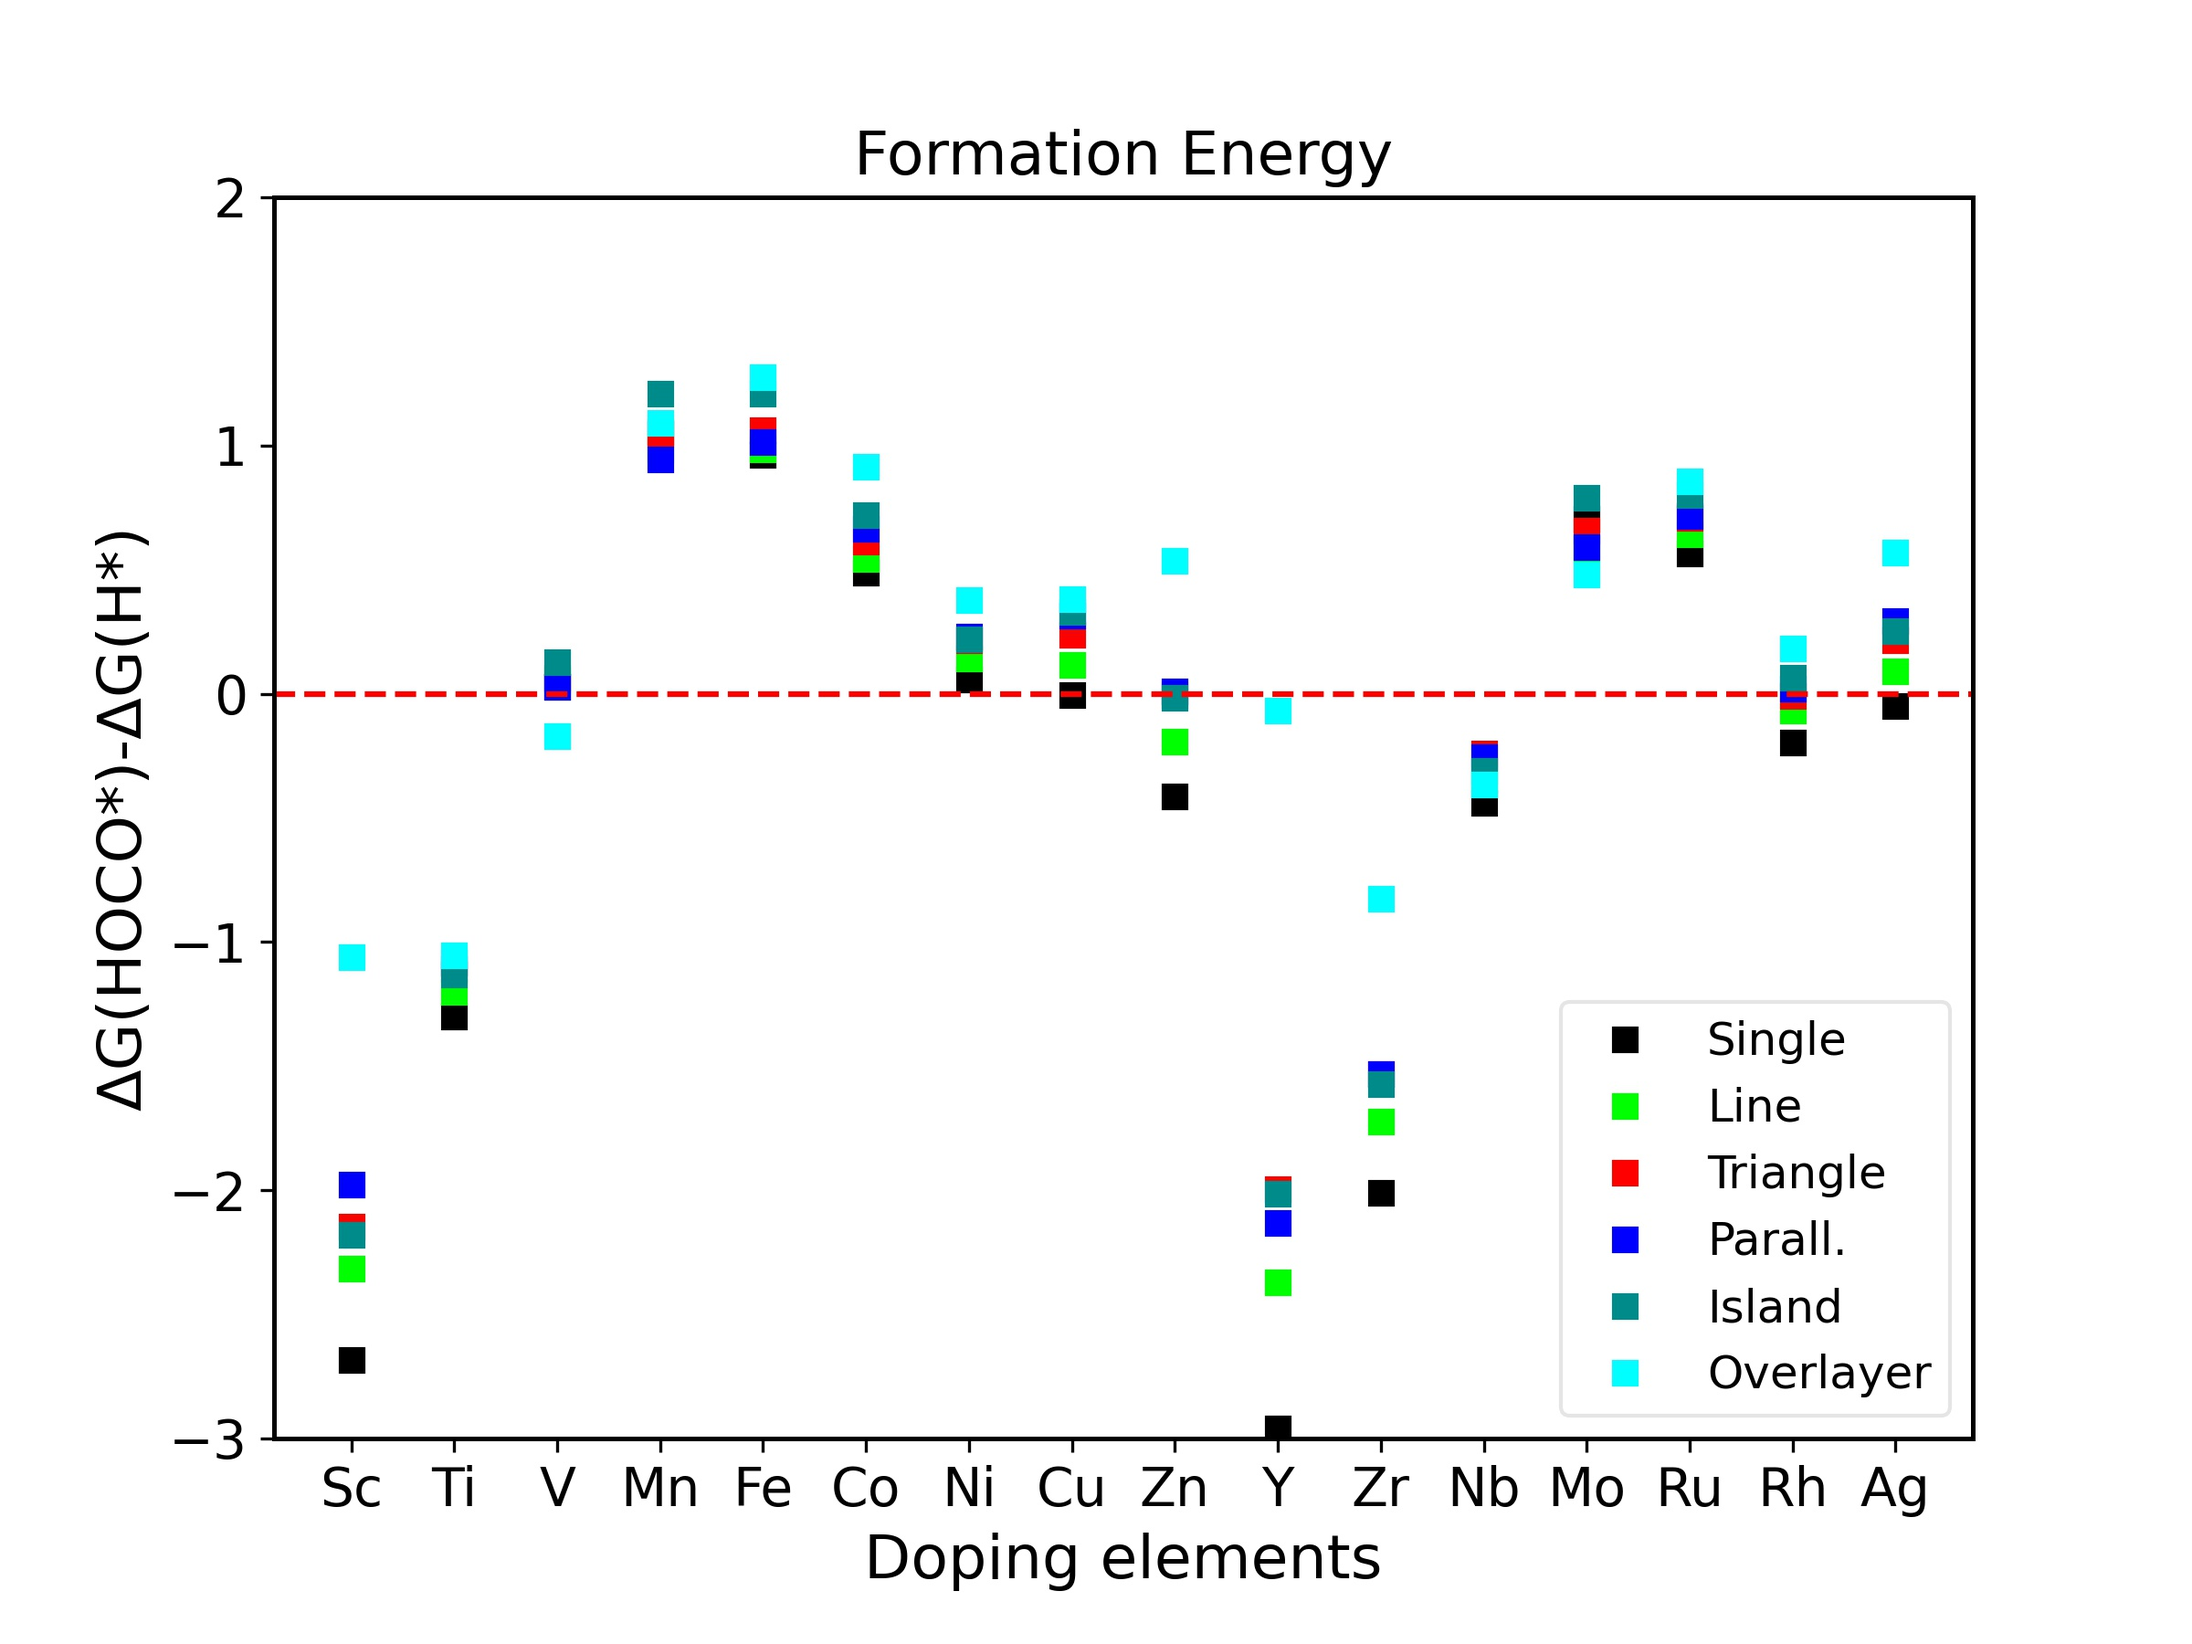
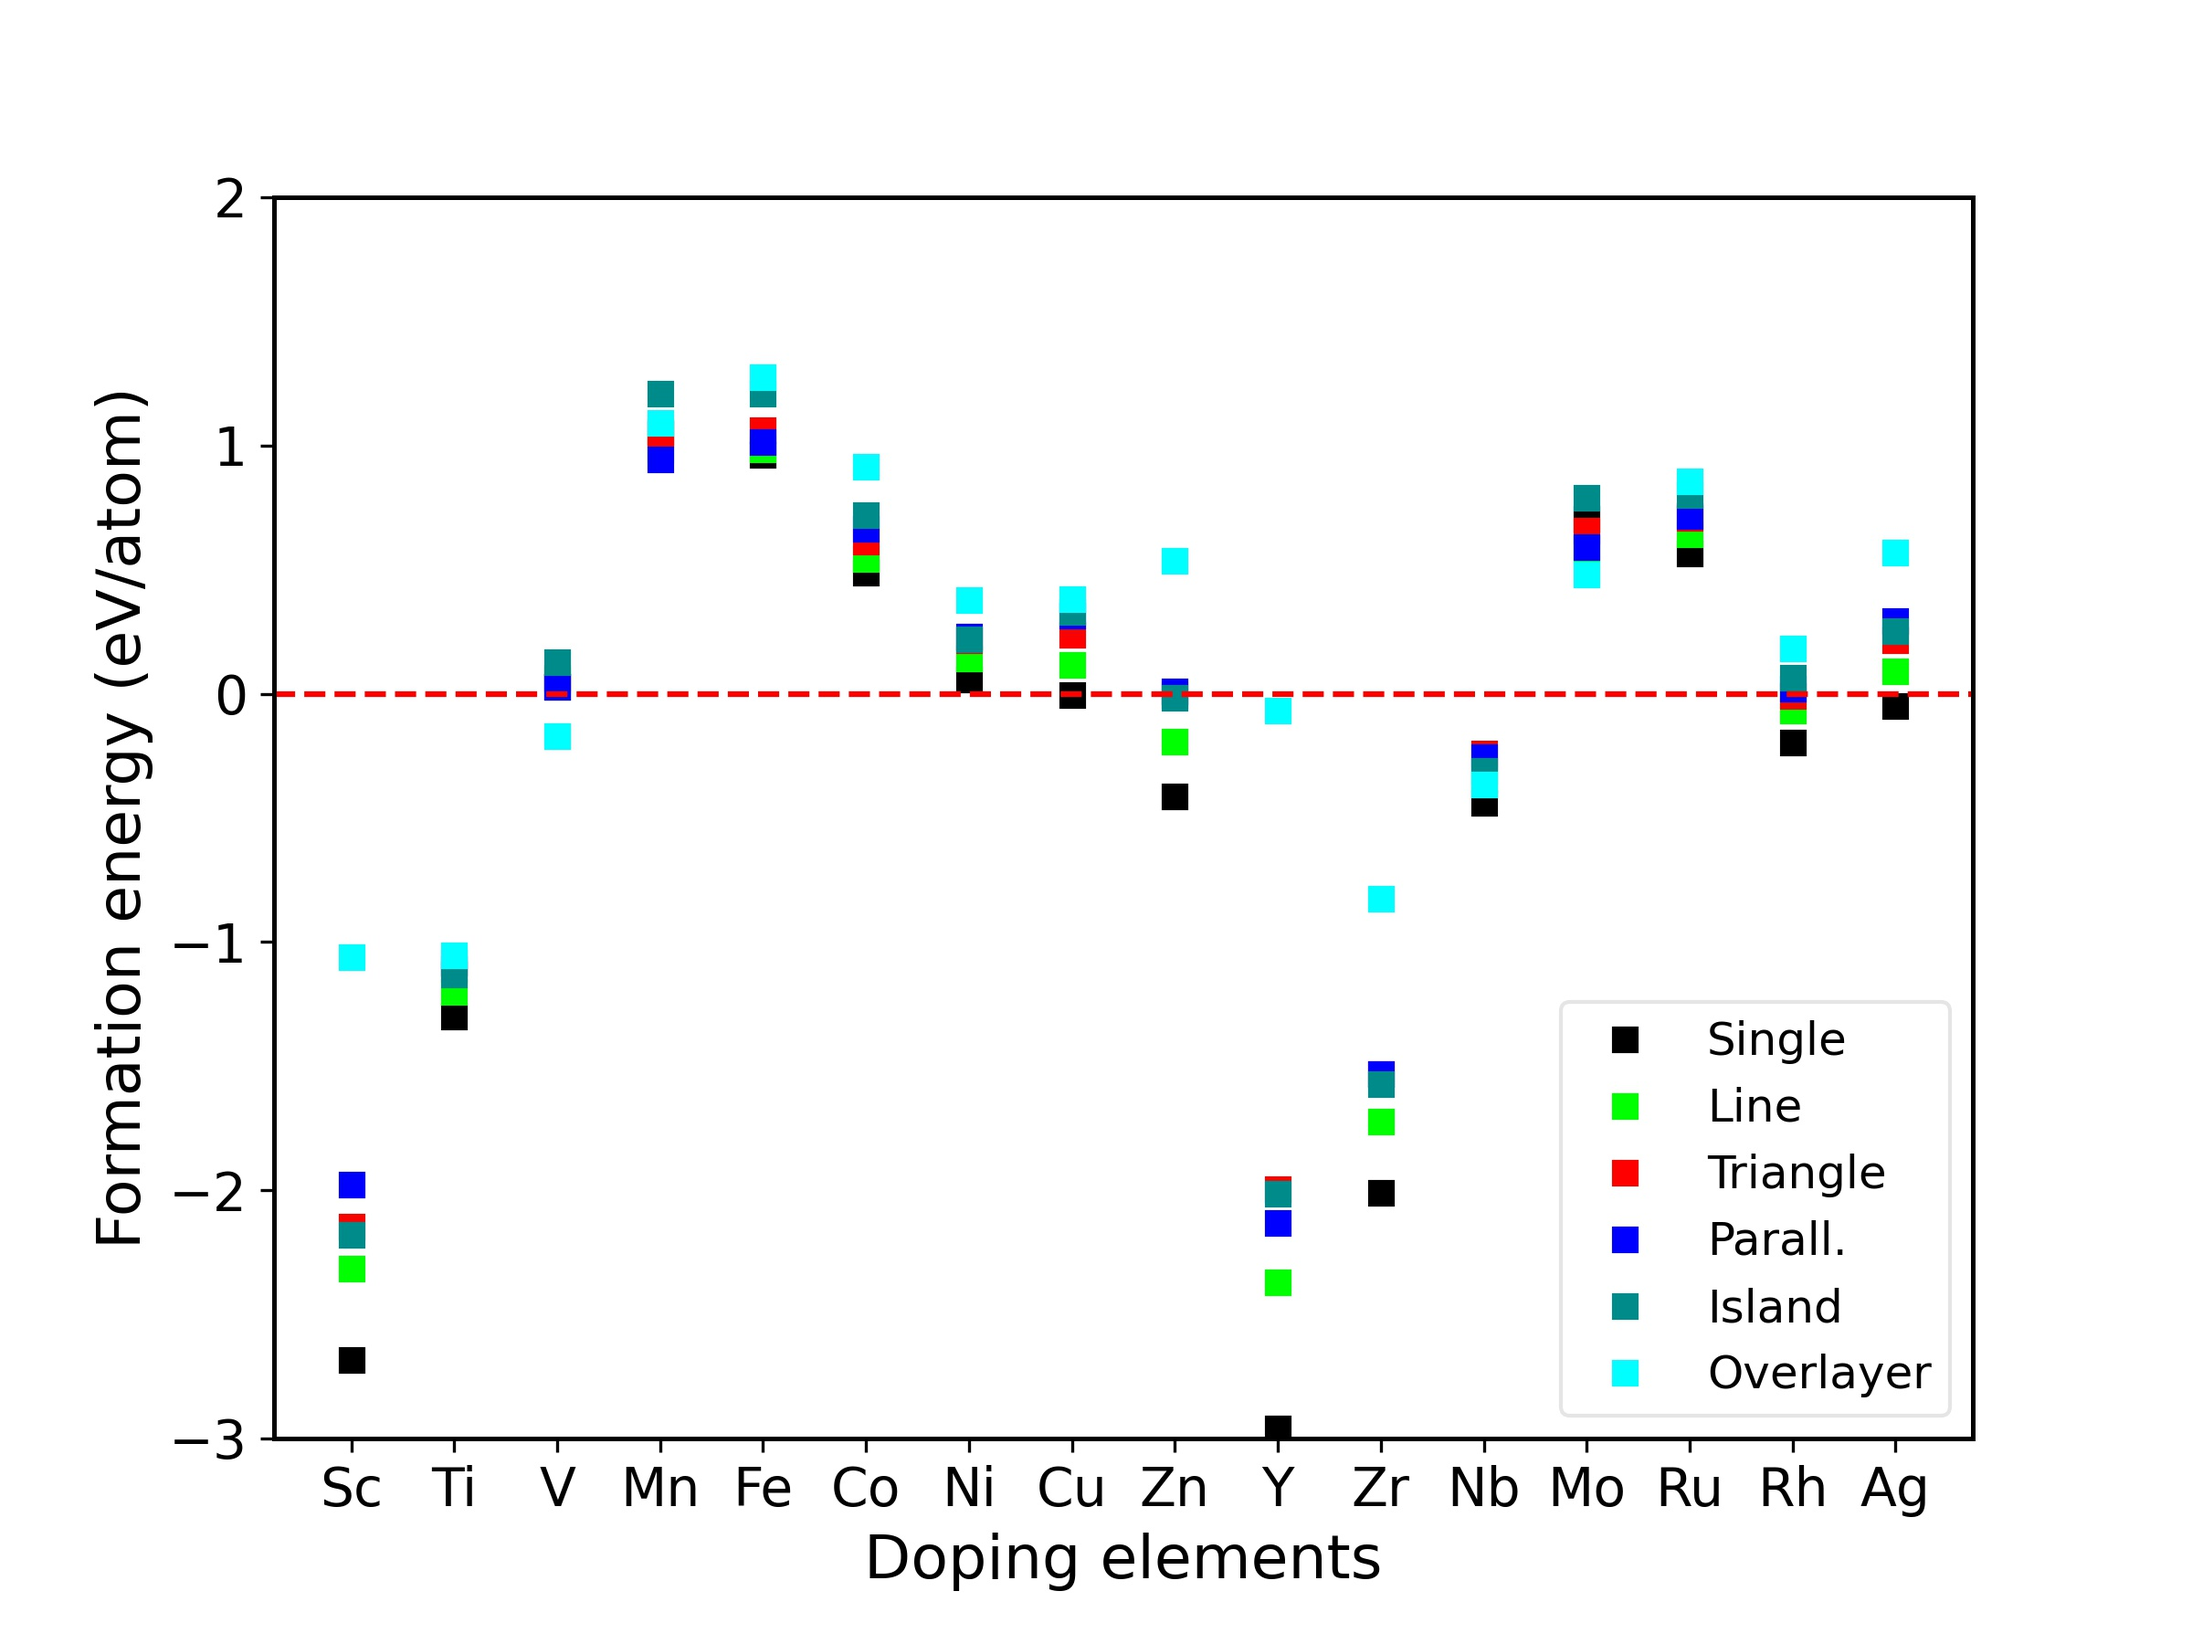
update

Changed region(s): [[0.0312, 0.2489, 0.0625, 0.7778], [0.4062, 0.0622, 0.625, 0.1244]]

diff --git a/plotpackage/lib/CO2RR.py b/plotpackage/lib/CO2RR.py
@@ -31,7 +31,7 @@ class CO2RRFEDplot:
         #                   'teal', 'thistle', 'y', 'tan', 'navy', 'wheat', 'gold', 'lightcoral', 'silver', 'violet', 'turquoise', 'seagreen', 'tan', \
         #                   'k', 'lime', 'r', 'b', 'darkcyan', 'cyan', 'olive', 'magenta', 'pink', 'gray', 'orange', 'purple', 'g', 'pink', 'brown',\
         #                   'k', 'lime', 'r', 'b', 'darkcyan', 'cyan', 'olive', 'magenta', 'pink', 'gray', 'orange', 'purple', 'g', 'pink', 'brown']
-        self.colorList = {'Ti': 'red', 'Pd': 'black', 'Sc': 'blue', 'V': 'orange', 'Mn': 'green', 'Fe': 'lightgray', 'Co': 'deepskyblue', 'Ni': 'pink', 'Cu': 'purple', 'Zn': 'olive', 'Y': 'cyan', 'Zr': 'lime', 'Nb': 'yellow', 'Mo': 'navy', 'Ru': 'magenta', 'Rh': 'brown', 'Ag': 'lightseagreen'}
+        self.colorList = {'PdH': 'black', 'Pure': 'black', 'Ti': 'red', 'Pd': 'black', 'Sc': 'blue', 'V': 'orange', 'Mn': 'green', 'Fe': 'lightgray', 'Co': 'deepskyblue', 'Ni': 'pink', 'Cu': 'purple', 'Zn': 'olive', 'Y': 'cyan', 'Zr': 'lime', 'Nb': 'yellow', 'Mo': 'navy', 'Ru': 'magenta', 'Rh': 'brown', 'Ag': 'lightseagreen'}
         #colorList = ['gray', 'brown', 'orange', 'olive', 'green', 'cyan', 'blue', 'purple', 'pink', 'red']
         #colorList = ['k', 'g', 'r', 'b', 'c', 'm', 'y', 'brown', 'pink', 'gray', 'orange', 'purple', 'olive']
         #self.stepsNames = ['* + CO2', '*HOCO', '*CO', '* + CO']  #reload step name for CO2RR

diff --git a/plotpackage/myproject/formation_energy_multi_plot.py b/plotpackage/myproject/formation_energy_multi_plot.py
@@ -43,9 +43,9 @@ plt.axhline(y=0, color='r', linestyle='--')
 # plt.xlim([-10, 8])
 plt.ylim([-3., 2])
 plt.xlabel('Doping elements', fontsize=16)
-# plt.ylabel('Formation energy (eV/atom)', fontsize=14)
-plt.ylabel('ΔG(HOCO*)-ΔG(H*)', fontsize=16)
-plt.title(sheet, fontsize=16)
+plt.ylabel('Formation energy (eV/atom)', fontsize=16)
+# plt.ylabel('ΔG(HOCO*)-ΔG(H*)', fontsize=16)
+# plt.title(sheet, fontsize=16)
 ax = fig.gca()
 ax.set_xticks(x)
 ax.set_xticklabels(observationName)

diff --git a/plotpackage/myproject/CO2RR_plot.py b/plotpackage/myproject/CO2RR_plot.py
@@ -67,7 +67,8 @@ X = np.delete(X, del_list, 0)
 # observationName = [observationName[i-2] for i in ranges]
 # selected_rows = [i-2 for i in ranges]
 # X = X[selected_rows,:]
-
+stepsNames = ['* + CO$_{2}$', 'HOCO*', 'CO*', '* + CO']  #reload step name for CO2RR
+observationName = ["PdH",]
 CO2RRdiagram = CO2RRFEDplot(stepsNames, observationName, X, figName1)
 ###costom connection
 # CO2RRdiagram.add_link(start_id=0, end_id=3)

diff --git a/plotpackage/myproject/CO2RR_TOF_2D_h.py b/plotpackage/myproject/CO2RR_TOF_2D_h.py
@@ -18,7 +18,7 @@ G_COg = -12.564 # eV
 kB = 8.617e-5 # Boltzmann constant in eV/K
 hplanck = 4.135669e-15 # eV s
 T0 = 297.15
-Gact0 = Gact1 = Gact2 = 0.475 # activative free energy
+Gact0 = Gact1 = Gact2 =0.475# activative free energy
 tc0 = tc1 = tc2 = 0.5  #transition state coefficency
 A_act1 = np.exp( - Gact1 / ( kB * T0 ) ) # 
 A_act2 = np.exp( - Gact2 / ( kB * T0 ) ) # electrochemical prefactor, fitting
